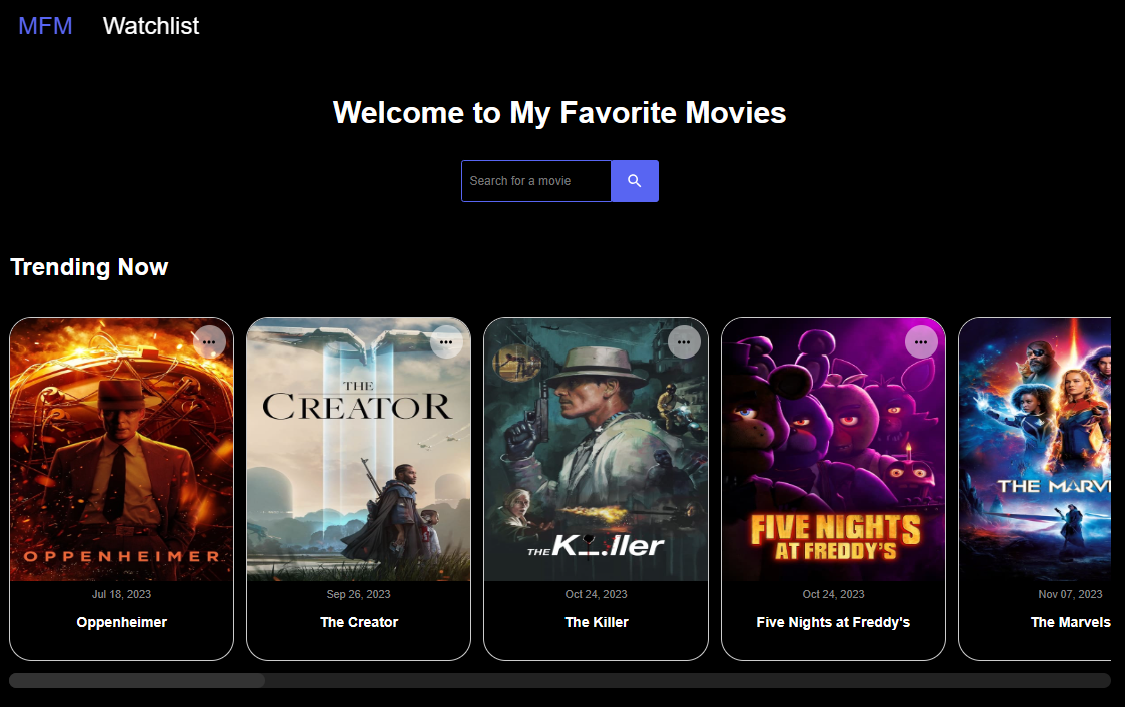
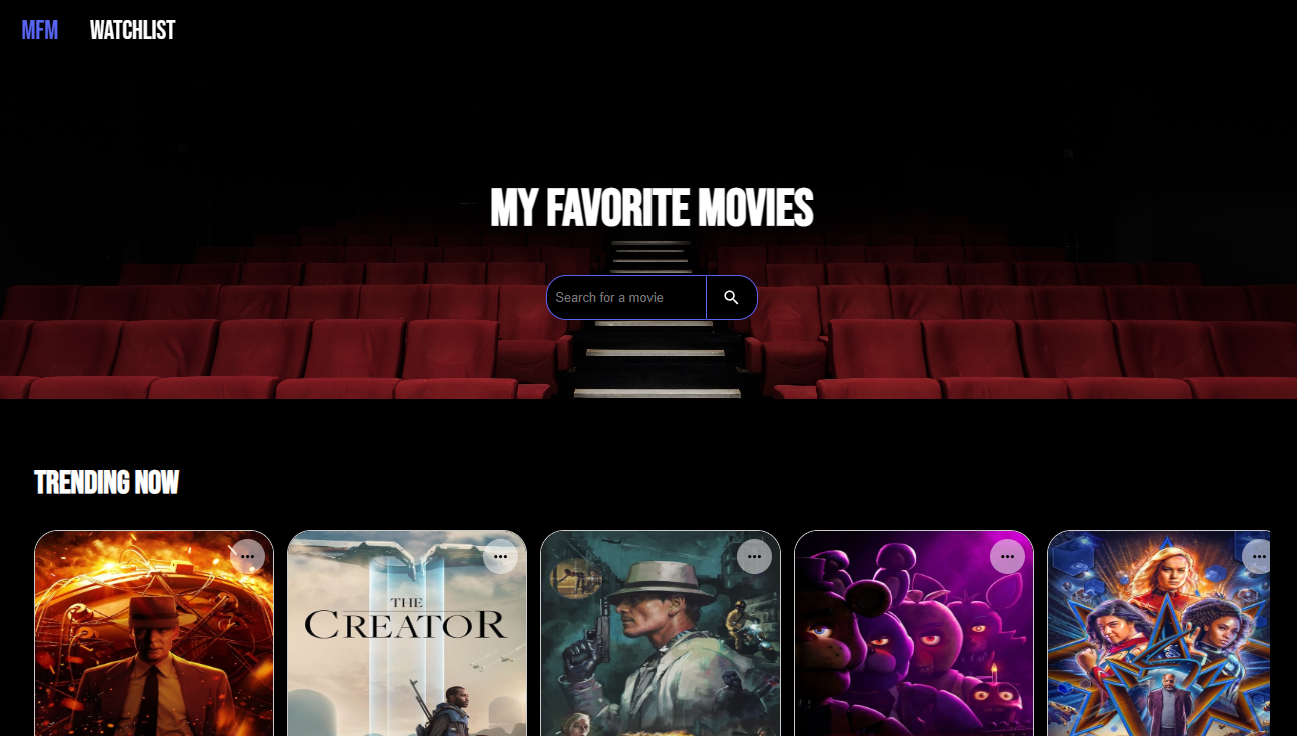
update project url and image for my favorite movies

diff --git a/src/components/views/Projects/Projects.styles.js b/src/components/views/Projects/Projects.styles.js
@@ -40,7 +40,7 @@ const projectsDetails = [
   {
     title: "My Favorite Movies",
     description: " 'My Favorite Movies' is a web application that utilizes The Movie Database(TMDb) API to provide users with an extensive collection of movie information.Users can search for their favorite movies, access detailed movie descriptions, explore the cast and crew, and even add movies to their personalized watchlist.It's your one-stop destination for discovering, learning about, and keeping track of your favorite films and actors. Explore the world of cinema at your fingertips with 'My Favorite Movies.'",
-    url: "https://my-favorite-movie-qve3e9heu-nbrooks89.vercel.app/",
+    url: "https://my-favorite-movie.vercel.app/",
     tagline: "Explore, Discover, and Track: Your Cinema Universe Awaits at 'My Favorite Movies'",
     technologies: ["React", "Javascript", "Styled Components", "The Movie Database API"],
     image: MFMImage
